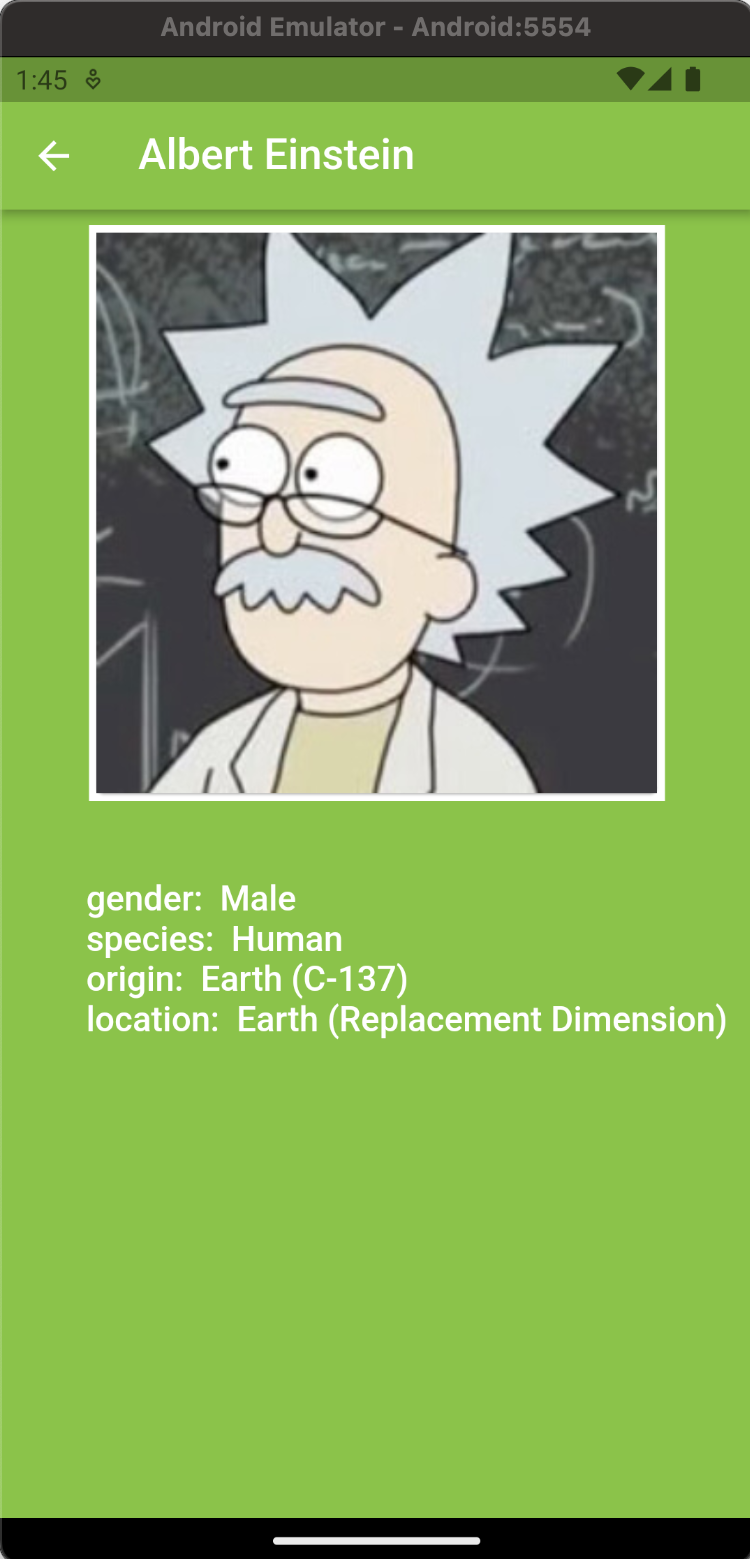
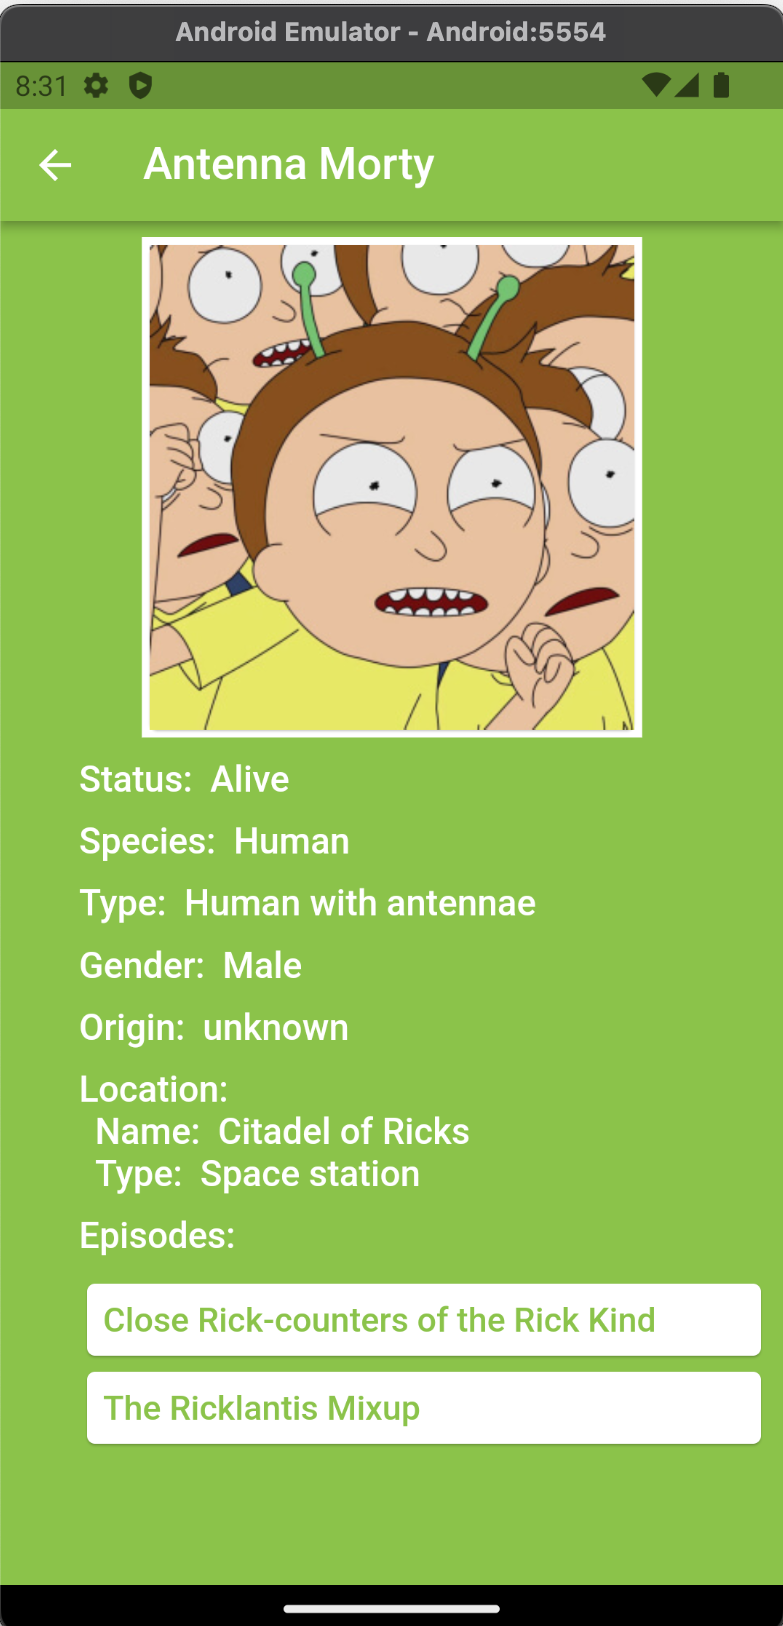
update

diff --git a/lib/item_details.dart b/lib/item_details.dart
@@ -47,64 +47,81 @@ class ItemDetails extends StatelessWidget {
             Center(
               child: Container(
                 color: Colors.white,
-                height: 300,
-                width: 300,
+                height: 250,
+                width: 250,
                 child: Card(
                   child: Expanded(
                     child: Image(
-                      height: 250,
-                      width: 250,
+                      height: 200,
+                      width: 200,
                       image: NetworkImage(image),
                     ),
                   ),
                 ),
               ),
             ),
-            const SizedBox(height: 40),
+            const SizedBox(height: 10),
             Padding(
-              padding: const EdgeInsets.only(left: 32),
+              padding: const EdgeInsets.only(
+                left: 32,
+              ),
               child: Container(
                 child: Column(
                   crossAxisAlignment: CrossAxisAlignment.start,
                   children: [
-                    Text(
-                      'Status:  $status',
-                      style: const TextStyle(
-                        fontSize: 18,
-                        fontWeight: FontWeight.w500,
-                        color: Colors.white,
+                    Padding(
+                      padding: const EdgeInsets.only(bottom: 10),
+                      child: Text(
+                        'Status:  $status',
+                        style: const TextStyle(
+                          fontSize: 18,
+                          fontWeight: FontWeight.w500,
+                          color: Colors.white,
+                        ),
                       ),
                     ),
-                    Text(
-                      'Species:  $species',
-                      style: const TextStyle(
-                        fontSize: 18,
-                        fontWeight: FontWeight.w500,
-                        color: Colors.white,
+                    Padding(
+                      padding: const EdgeInsets.only(bottom: 10),
+                      child: Text(
+                        'Species:  $species',
+                        style: const TextStyle(
+                          fontSize: 18,
+                          fontWeight: FontWeight.w500,
+                          color: Colors.white,
+                        ),
                       ),
                     ),
-                    Text(
-                      'Type:  $type',
-                      style: const TextStyle(
-                        fontSize: 18,
-                        fontWeight: FontWeight.w500,
-                        color: Colors.white,
+                    Padding(
+                      padding: const EdgeInsets.only(bottom: 10),
+                      child: Text(
+                        'Type:  $type',
+                        style: const TextStyle(
+                          fontSize: 18,
+                          fontWeight: FontWeight.w500,
+                          color: Colors.white,
+                        ),
                       ),
                     ),
-                    Text(
-                      'Gender:  $gender',
-                      style: const TextStyle(
-                        fontSize: 18,
-                        fontWeight: FontWeight.w500,
-                        color: Colors.white,
+                    Padding(
+                      padding: const EdgeInsets.only(bottom: 10),
+                      child: Text(
+                        'Gender:  $gender',
+                        style: const TextStyle(
+                          fontSize: 18,
+                          fontWeight: FontWeight.w500,
+                          color: Colors.white,
+                        ),
                       ),
                     ),
-                    Text(
-                      'Origin:  $origin',
-                      style: const TextStyle(
-                        fontSize: 18,
-                        fontWeight: FontWeight.w500,
-                        color: Colors.white,
+                    Padding(
+                      padding: const EdgeInsets.only(bottom: 10),
+                      child: Text(
+                        'Origin:  $origin',
+                        style: const TextStyle(
+                          fontSize: 18,
+                          fontWeight: FontWeight.w500,
+                          color: Colors.white,
+                        ),
                       ),
                     ),
                     const Text(
@@ -137,12 +154,15 @@ class ItemDetails extends StatelessWidget {
                         ),
                       ),
                     ),
-                    const Text(
-                      'Episodes:',
-                      style: TextStyle(
-                        fontSize: 18,
-                        fontWeight: FontWeight.w500,
-                        color: Colors.white,
+                    const Padding(
+                      padding: EdgeInsets.only(top: 10),
+                      child: Text(
+                        'Episodes:',
+                        style: TextStyle(
+                          fontSize: 18,
+                          fontWeight: FontWeight.w500,
+                          color: Colors.white,
+                        ),
                       ),
                     ),
                     const SizedBox(
@@ -159,7 +179,7 @@ class ItemDetails extends StatelessWidget {
                               child: Text(
                                 episods[index]['name'],
                                 style: const TextStyle(
-                                  fontSize: 18,
+                                  fontSize: 17,
                                   fontWeight: FontWeight.w500,
                                   color: Colors.lightGreen,
                                 ),
